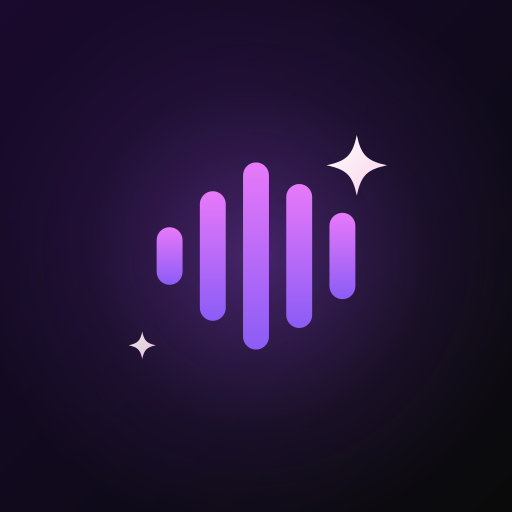
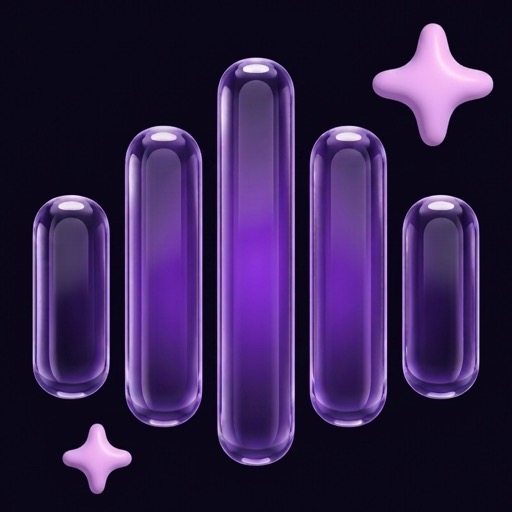
feat(pwa): アプリアイコン/favicon追加(リキッドガラス調)

diff --git a/web/index.html b/web/index.html
@@ -4,8 +4,8 @@
     <meta charset="UTF-8" />
     <meta name="viewport" content="width=device-width, initial-scale=1.0, viewport-fit=cover" />
     <meta name="theme-color" content="#0a0a0a" />
-    <link rel="icon" type="image/svg+xml" href="/favicon.svg" />
     <link rel="icon" type="image/png" sizes="32x32" href="/favicon-32.png" />
+    <link rel="icon" type="image/png" sizes="192x192" href="/icon-192.png" />
     <link rel="apple-touch-icon" sizes="180x180" href="/apple-touch-icon.png" />
     <title>Podcast LLM</title>
   </head>
